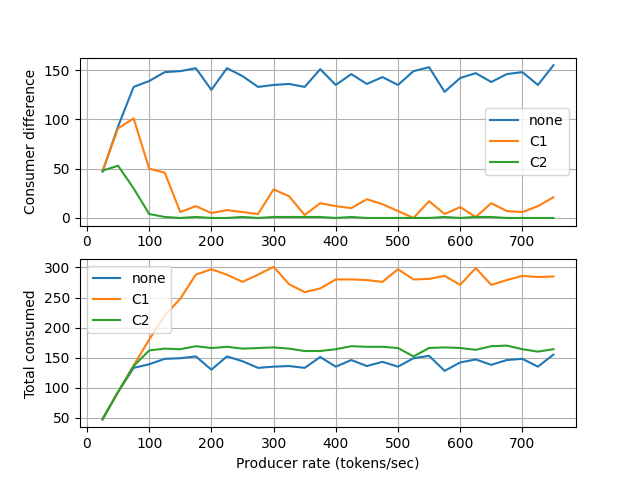
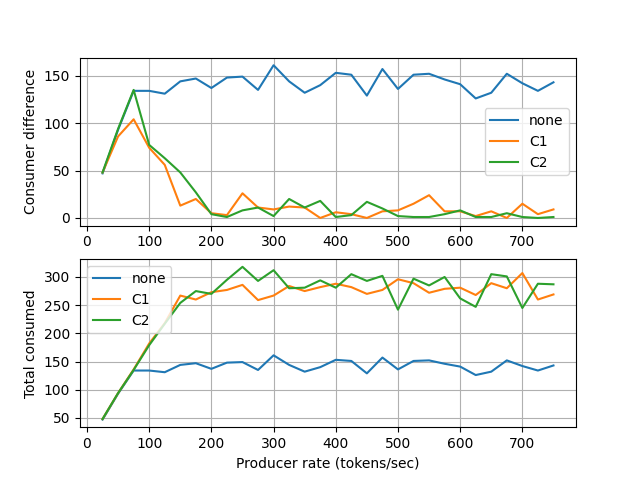
pi_controller: Added P-controller results

diff --git a/src/pi_controller/main.py b/src/pi_controller/main.py
@@ -138,10 +138,15 @@ def USAGE():
         Default: exponential,0.5
       -G
         if provided, the script generates PT net graph and exits
+      -K
+        comman separated PI controller gain values
+          e.g. 1e-1,1e-2
+
+        Default: 1e-2,1e-4
 
     **Example**
 
-      python -m src.pi_controller -T 8.5 -r exponential,0.05 -p 100 -c none
+      python src/pi_controller/main.py -T 8.5 -r exponential,0.05 -p 100 -c none
     """
     print(USAGE.__doc__)
 
@@ -167,8 +172,9 @@ def main(argv):
     GENERATE_GRAPH_AND_EXIT = False
     HOST = "127.0.0.1"
     PORTS = [8888, 8889]
+    K_PI = []
 
-    opts, args = getopt.getopt(argv[1:], "r:c:T:o:l:p:GH:P:")
+    opts, args = getopt.getopt(argv[1:], "r:c:T:o:l:p:GH:P:K:")
 
     for o, a in opts:
         if o == "-r":
@@ -194,6 +200,10 @@ def main(argv):
             HOST = a
         elif o == "-P":
             PORTS = [int(val) for val in a.split(",")]
+        elif o == "-K":
+            K_PI = [float(val) for val in a.split(",")]
+            if len(K_PI) != 2:
+                raise RuntimeError(f"Option -K is invalid '{a}'")
 
     if CONTROLLER_TYPE == "none":
         CONTROLLER_ENABLED = False
@@ -260,9 +270,9 @@ def main(argv):
 
     ci = [0.0, 0.0]
     """Integrator states"""
-    Kp = 1e-2
+    Kp = 1e-2 if not K_PI else K_PI[0]
     """Propotional gain"""
-    Ki = 1e-4
+    Ki = 1e-4 if not K_PI else K_PI[1]
     """Integrator gain"""
     Zi = 1e-2
     """Integrator damping"""
@@ -289,7 +299,7 @@ def main(argv):
             """PI controller"""
             if abs(sleep_amount) > 1e4:
                 """This should never happen."""
-                print("!!!", value, "!!!")
+                print("!!!", sleep_amount, "!!!")
                 ci[index] = 0.0
             await net.sleep(sleep_amount)
             """Give a push to the other branch when it is slower."""

diff --git a/src/pi_controller/__main__.py b/src/pi_controller/__main__.py
@@ -9,14 +9,14 @@ DIR = os.path.dirname(os.path.realpath(__file__))
 TIME = 2.0
 MEAN = 0.01
 RNG_PARAMS = f"exponential,{MEAN}"
-LOADS = ["0,1;"]
+K_PIS = ["1e-2,1e-4", "1e-2,0"]
 CONT = ["none", "C1", "C2"]
 PRODUCE_RATE_SCALER = 25
 END = 30
 
 
 def _results(argv):
-    for i in range(1, len(LOADS) + 1):
+    for i in range(1, len(K_PIS) + 1):
         log_file = f"{DIR}/results_{i}.json"
         output_file = f"{DIR}/result_{i}.png"
         args = ["", "-i", log_file, "-o", output_file]
@@ -30,7 +30,7 @@ def _main(argv):
     argv = ["-T", TIME] + argv[1:]
 
     i = 1
-    for l in LOADS:
+    for k in K_PIS:
         log_file = f"{DIR}/results_{i}.json"
         with open(log_file, "w") as fh:
             fh.write('{ "trials": [' + os.linesep)
@@ -47,8 +47,8 @@ def _main(argv):
                     log_file,
                     "-p",
                     PRODUCE_RATE_SCALER * j,
-                    "-l",
-                    l,
+                    "-K",
+                    k,
                 ]
                 args += argv
                 print("Starting simulation with arguments:")

diff --git a/src/pi_controller/doc.rst b/src/pi_controller/doc.rst
@@ -68,15 +68,15 @@ rate. However, it can be adjusted by ``LOOP_DELAY`` parameter below.
 
 .. literalinclude:: ../../src/pi_controller/main.py
    :language: python
-   :lines: 205-209
-   :lineno-start: 205
+   :lines: 215-219
+   :lineno-start: 215
 
 The producer logic is defined as below.
 
 .. literalinclude:: ../../src/pi_controller/main.py
    :language: python
-   :lines: 209-217
-   :lineno-start: 209
+   :lines: 221-227
+   :lineno-start: 221
 
 Async function ``producer`` is called in a dedicated asyncio task loop with
 the period given by ``PRODUCE_DELAY``. The produced tokens are labeled by
@@ -90,8 +90,8 @@ to a TCP server and also constantly notifies the controllers :math:`k_1` and :ma
 
 .. literalinclude:: ../../src/pi_controller/main.py
    :language: python
-   :lines: 218-260
-   :lineno-start: 218
+   :lines: 228-270
+   :lineno-start: 228
 
 .. _controllers:
 
@@ -114,10 +114,12 @@ the average value of time delay for one of them.
 Controllers
 -----------
 
+.. _controller_code:
+
 .. literalinclude:: ../../src/pi_controller/main.py
    :language: python
-   :lines: 260-299
-   :lineno-start: 260
+   :lines: 270-309
+   :lineno-start: 270
 
 The important lines are
 
@@ -170,8 +172,7 @@ Results
 -------
 
 It is assumed that, the processing time of servers are modeled by an exponential random variable
-with an average processing delay of 0.01 seconds (100Hz). The TCP servers are kept alive for
-nearly 3 seconds, meaning that, each simulation takes 3 seconds.
+with an average processing delay of 0.01 seconds (100Hz). Each simulation takes nearly 3 seconds.
 
 The simulations are run for all controller types and several token producing rates from 25Hz to 750Hz.
 
@@ -195,6 +196,25 @@ The simulations are run for all controller types and several token producing rat
   work loads.
 * When there is no control rule is present, all requests are piled up in the first consumer's
   (:math:`p_{12}`) input buffer. It produces the worst scenario among others.
+
+P-controller
+^^^^^^^^^^^^
+
+.. |controller_code| replace:: :literal:`Ki`
+
+In this case, the integrator gain |controller_code|_ is chosen as zero instead of the default
+value ``1e-4``, meaning that only proportional gain is active. The plot below shows the results for
+this case.
+
+.. figure:: ../../src/pi_controller/result_2.png
+   :align: center
+
+   The results when integrator is disabled.
+
+**Comments:**
+
+* It shows the effectiveness of PI-controller scheme. Because, the controller of a branch (:math:`k_i`)
+  tracks the operation of the opposite branch much closely when integrator action is active.
 
 Reproduce
 ^^^^^^^^^
